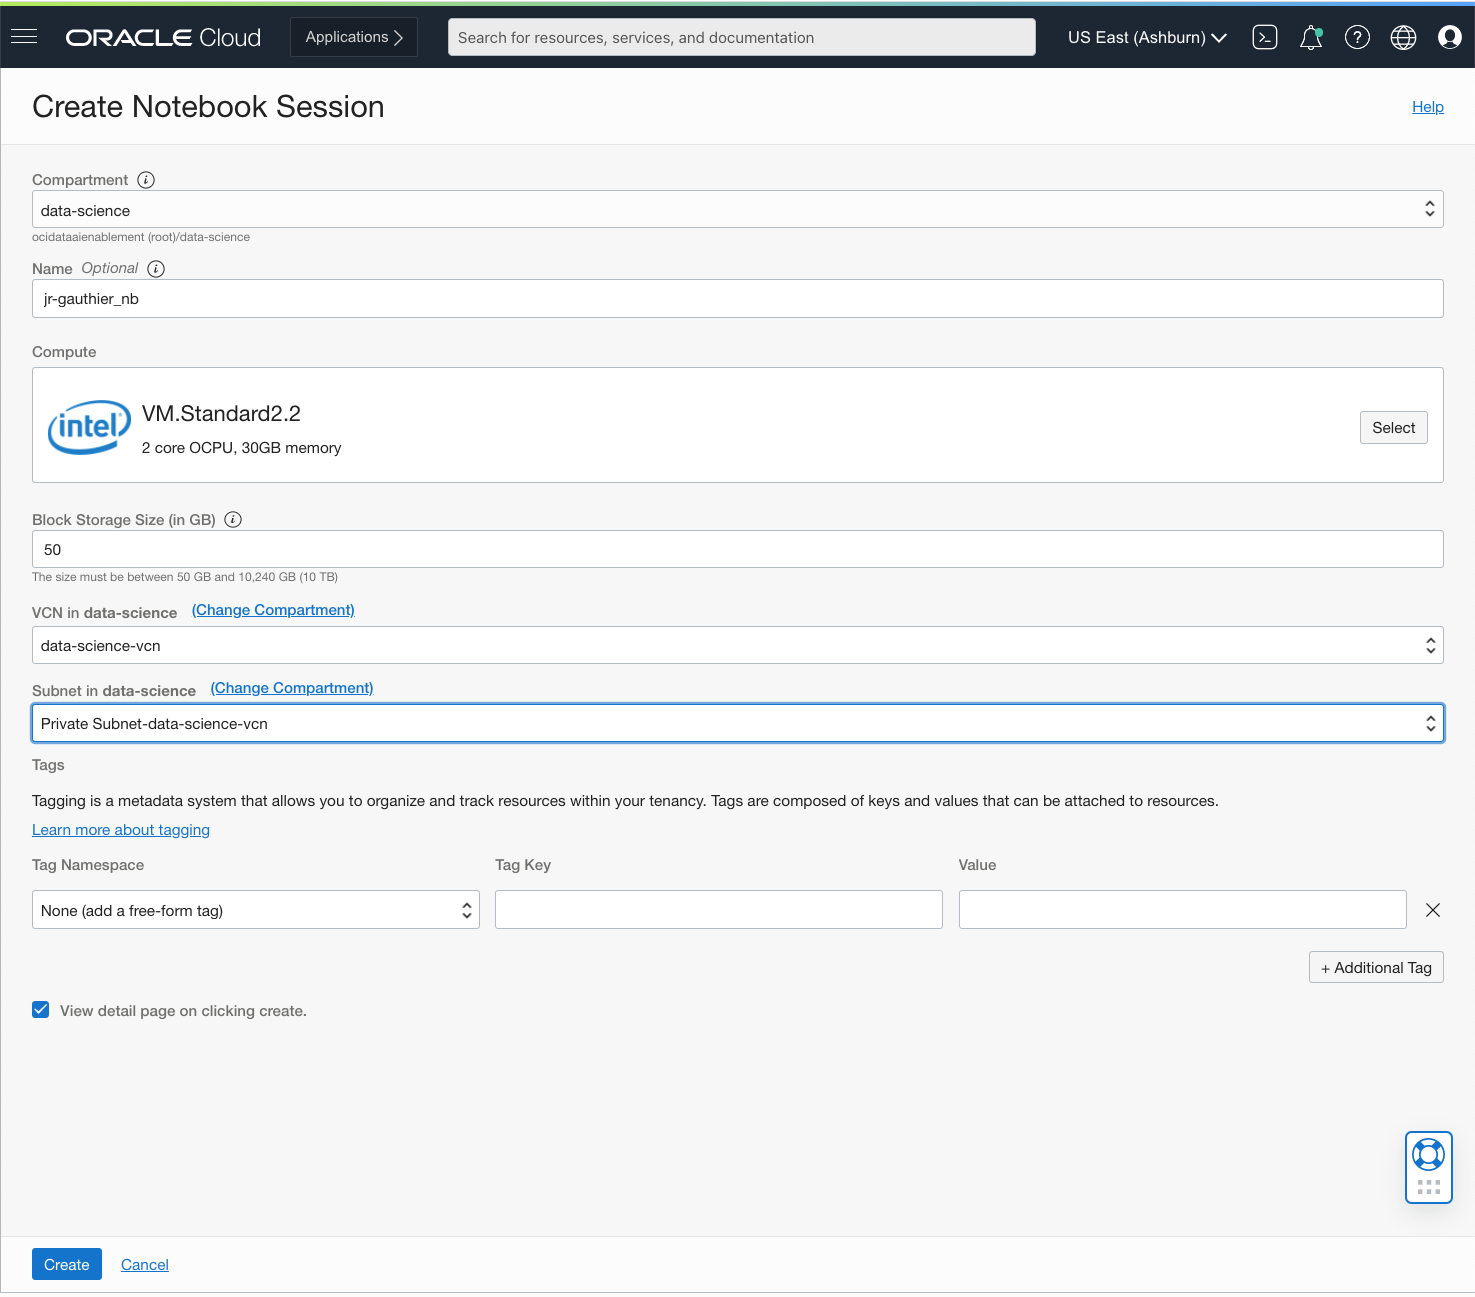
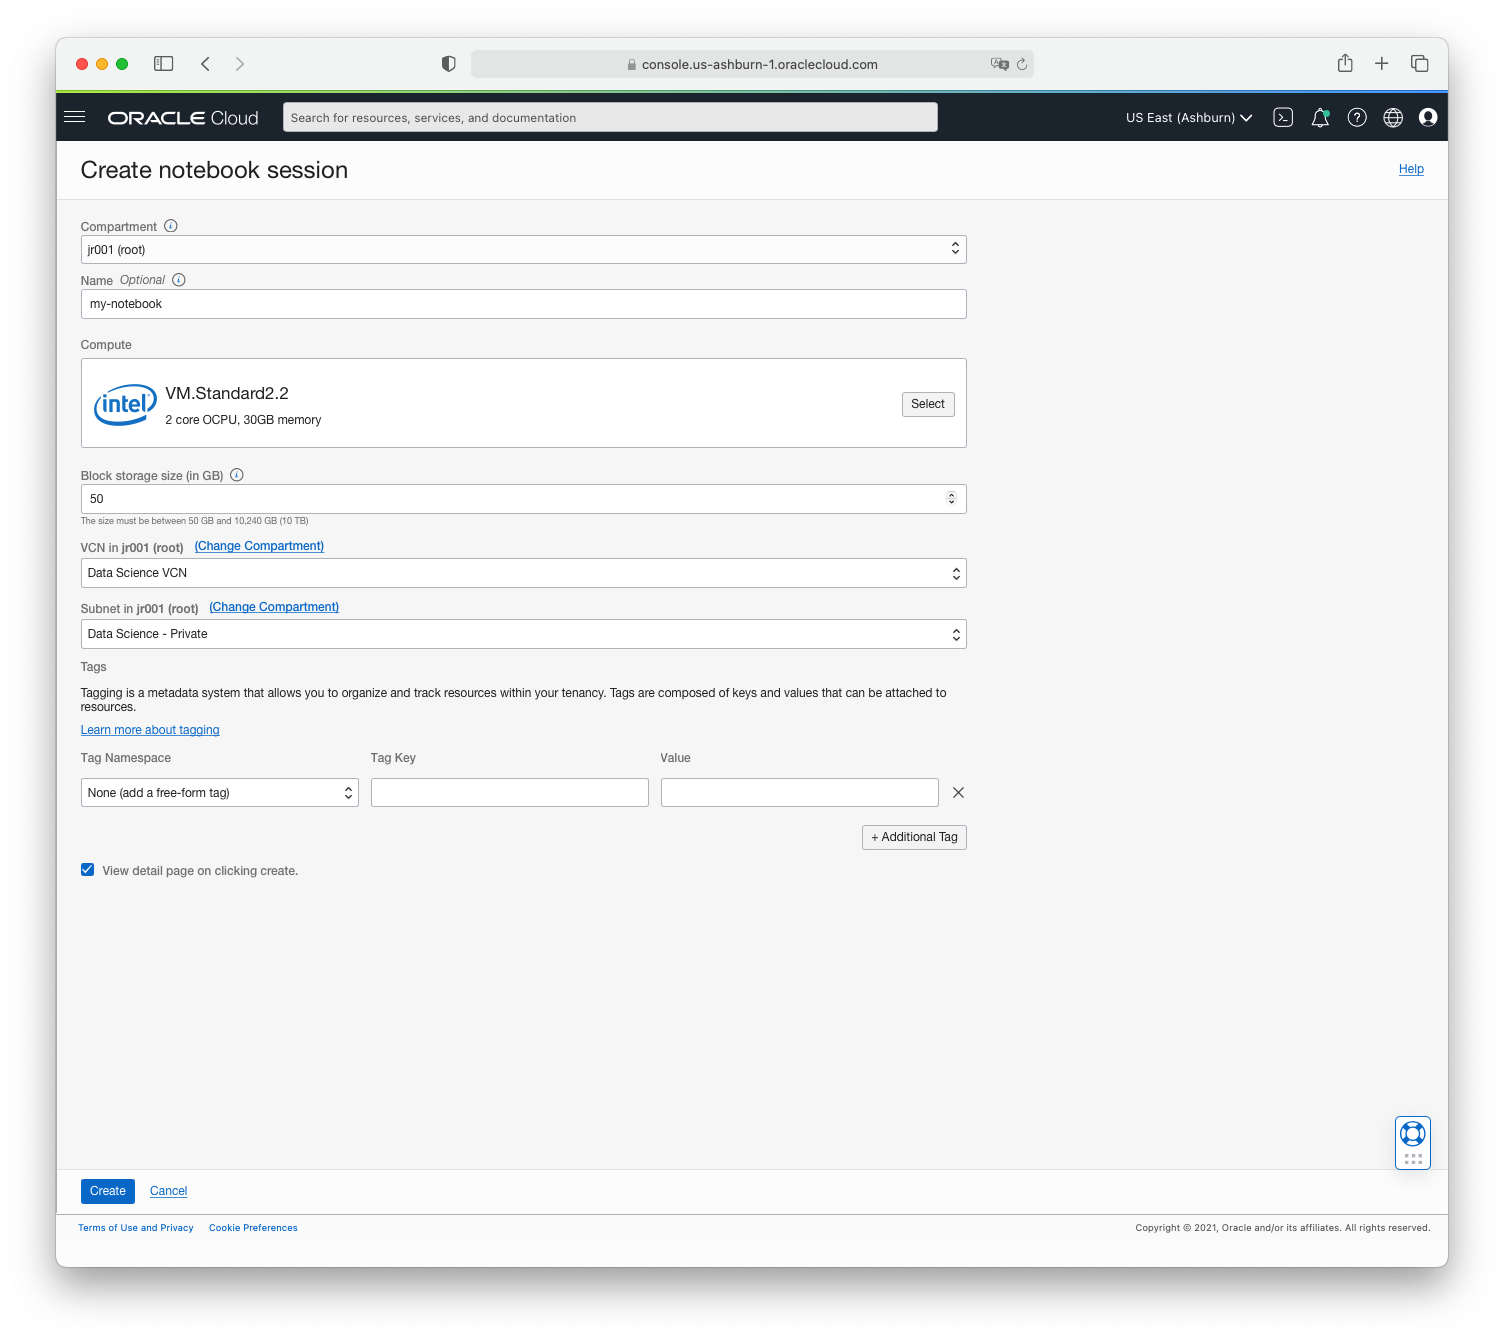
lab 1 first draft

diff --git a/labs/MLSummit21/lab-1-notebook-setup.md b/labs/MLSummit21/lab-1-notebook-setup.md
@@ -1,0 +1,90 @@
+# Create a Notebook Session
+
+## Introduction
+
+Data Science notebook sessions are interactive coding environments for building and training models. Notebook sessions provide access to a JupyterLab environment that is managed by the Data Science service. As of October 2021, OCI Data Science supports **JupyterLab version 2.2.6.**
+
+A notebook session is associated with a virtual machine (VM) shape, a [block volume](https://docs.oracle.com/en-us/iaas/Content/Block/Concepts/overview.htm) and a VCN+subnet configuration.
+Data scientists can choose the VM shape they want to run their notebook session in, they can also select the amount of storage they want to assign to their notebook session (between 50Gb and 10Tb). In addition, egress traffic from the notebook session is routed through the VCN/subnet selection made by the data scientist. This gives users flexibility to configure the network they want to access to and from a notebook session.
+
+### Block Volumes
+
+There are two block volume drives associated with a notebook session. There is a boot volume that is initialized each time the notebook session is activated. Any data on the boot volume is lost when the notebook session is deactivated or terminated. There is an additional block storage unit that is preserved when a notebook session is deactivated, but it is destroyed when a notebook session is terminated. This block volume is represented by the ``/home/datascience`` directory and it is where the JupyterLab notebooks, data files, installed custom software, and other files should be stored.
+
+When a notebook session is created or activated, the compute instance, block storage, VCN, and subnet are provisioned and configured. These resources can be changed by deactivating a notebook session, then selecting different configuration when activating the notebook session again. **The size of the block storage can only be increased.**
+
+### Activating and Deactivating Notebooks
+
+After a notebook session is successfully created, it is in an "Active" state. When you de-activate a notebook session, metering stops on the VM shape. In other words, while the notebook session is inactive you are not being billed for the VM shape. It's like putting your notebook session on pause. While the notebook session is inactive, all the data that is stored in the block volume that you configured persist. We do meter for the block volume while the notebook session is inactive.
+
+Once you activate the notebook session, the block volume is re-attached. You can also select a different VM shape if you want or decide to add more storage to your block volume drive.
+
+Estimated Lab Time: 5 minutes
+
+## Objectives
+In this lab, you will:
+* Use the Console to create a Data Science notebook session
+
+## Prerequisites
+
+* You are signed-in to the Oracle Cloud Infrastructure Console using your IDCS credentials
+* You are in the Ashburn region
+* You have selected the *data-science* compartment
+* You have opened the project you created in Lab 0
+
+## **STEP 1** Create a Notebook Session
+
+1. Confirm you have completed all the prerequisites and are viewing your Data Science project.
+
+1. Click *Create Notebook Session*.
+  ![](./images/create-notebook.png)
+
+1. The Create Notebook Session dialog opens. In the next steps, you will enter all the fields.
+  ![](./images/create-ns.png)
+
+1. Click the *Select* button to select a VM shape. We recommend that you select the *Intel SKYLAKE* radio button, and check **VM.Standard2.2**, then click the *Select* button. The [Compute Shapes](https://docs.cloud.oracle.com/en-us/iaas/Content/Compute/References/computeshapes.htm) documentation page has more details on all OCI compute shapes. The VM.Standard2.2 shape provides 2 OCPUS and 30GB of memory. It is a good starting point this lab. Alternatively, you can pick a VM.Standard.E3 shape with similar amounts of OCPUs and memory. 
+  ![](./images/select-compute.png)
+
+1. Enter the block volume size of **50 GB**.
+
+1. Select the VCN **Data Science VCN**. This is the VCN that was created by the Resource Manager Stack.
+
+1. Select the subnet **Data Science - Private**. This is the VCN that was created by the Resource Manager Stack. **Using a private subnet is required for this lab**
+
+1. Check *View detail page on clicking create*.
+
+1. Click *Create*.
+
+1. While the notebook session is being created, you will be taken to the detail page. *The notebook session will take about 7 minutes to provision*. When it is ready, the *Open* button will be enabled.
+    ![](./images/creating-ns.png)
+    
+1. You will notice that the notebook session emits four metrics (CPU Utilization, Memory Utilization, Network Receive and Transmit Bytes) and is integrated with OCI Monitoring. In a separate lab you will learn how to trigger alarms when those metrics reach certain pre-defined thresholds.
+    ![](./images/notebook-monitoring.png)    
+    
+## **STEP 2** Copy The Reposity Notebooks to Your Notebook Session 
+
+1. Download a zip archive of this repository to your laptop/local machine. Make sure that you select the **master** branch
+
+![](./images/github-zip-repo.png) 
+
+1. Open your notebook session. Click on "Open"
+
+![](./images/ns-open.png)
+
+1. Drag and drop the folder on your 
+
+![](./images/drag-and-drop-zip-file.png)
+
+1. Open a Terminal window 
+
+![](./images/open-terminal.png)
+
+1. Execute the following command in the terminal window: 
+
+  ```
+  unzip oci-data-science*.zip
+  ```
+  This command will unzip the file. 
+  
+1. Open the newly created folder and navigate to this lab folder. 
+
